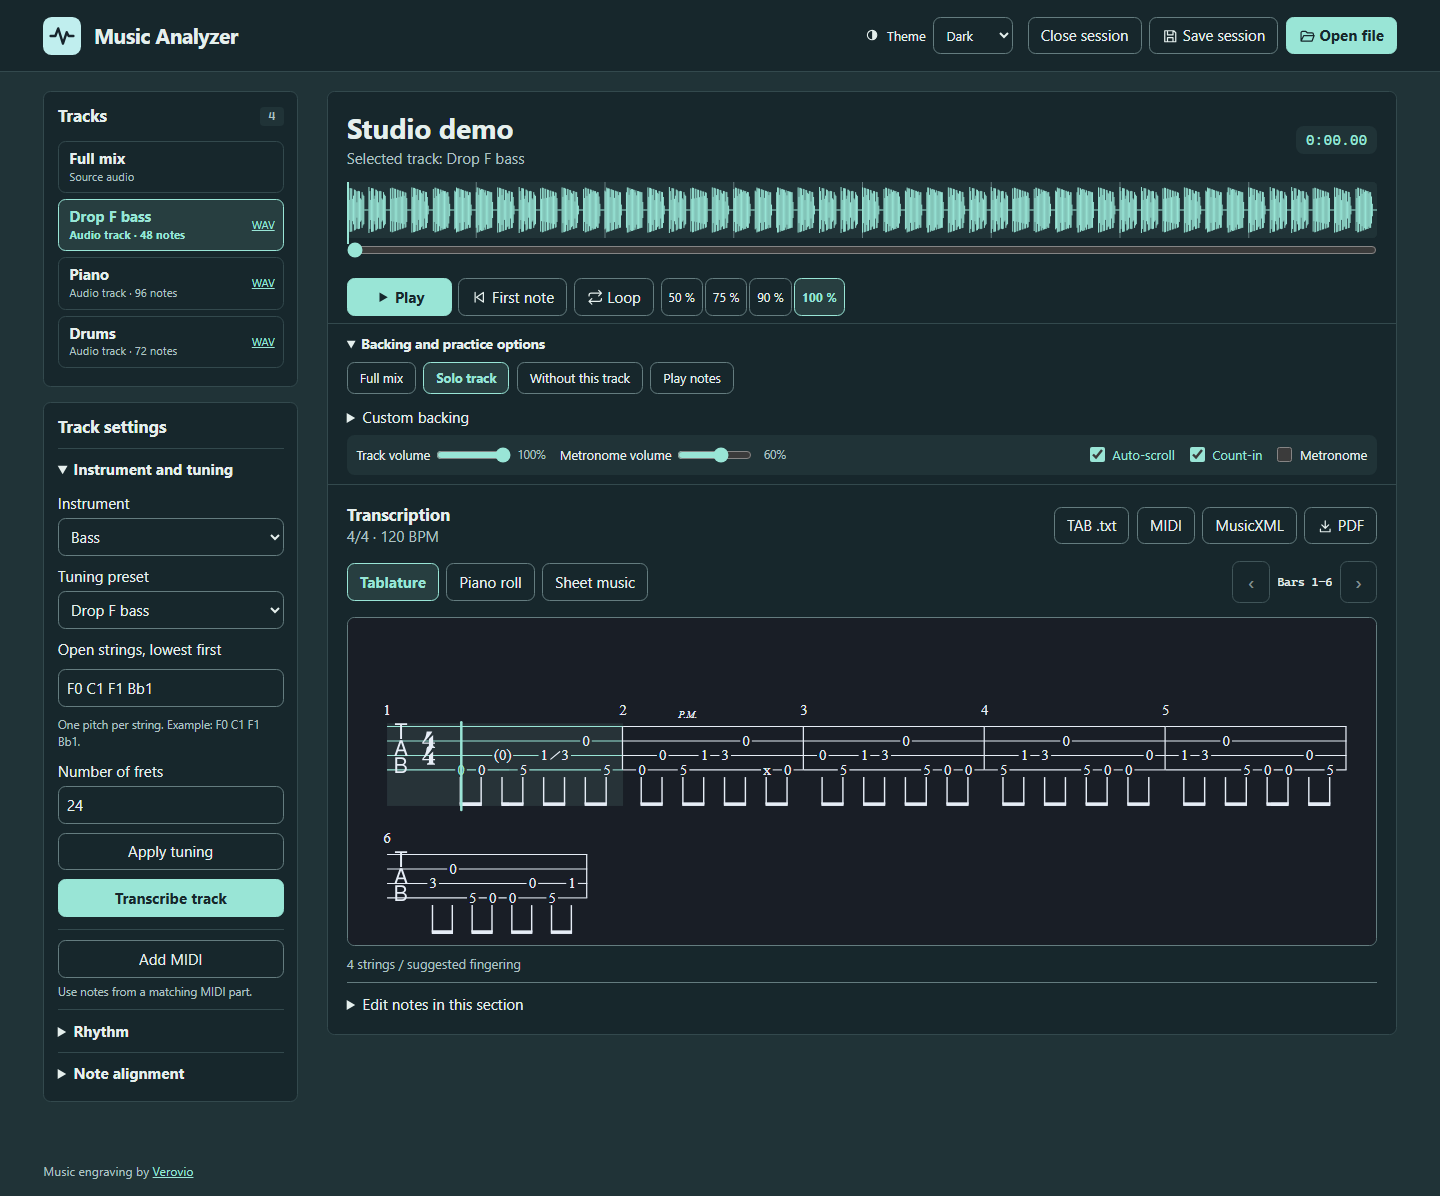
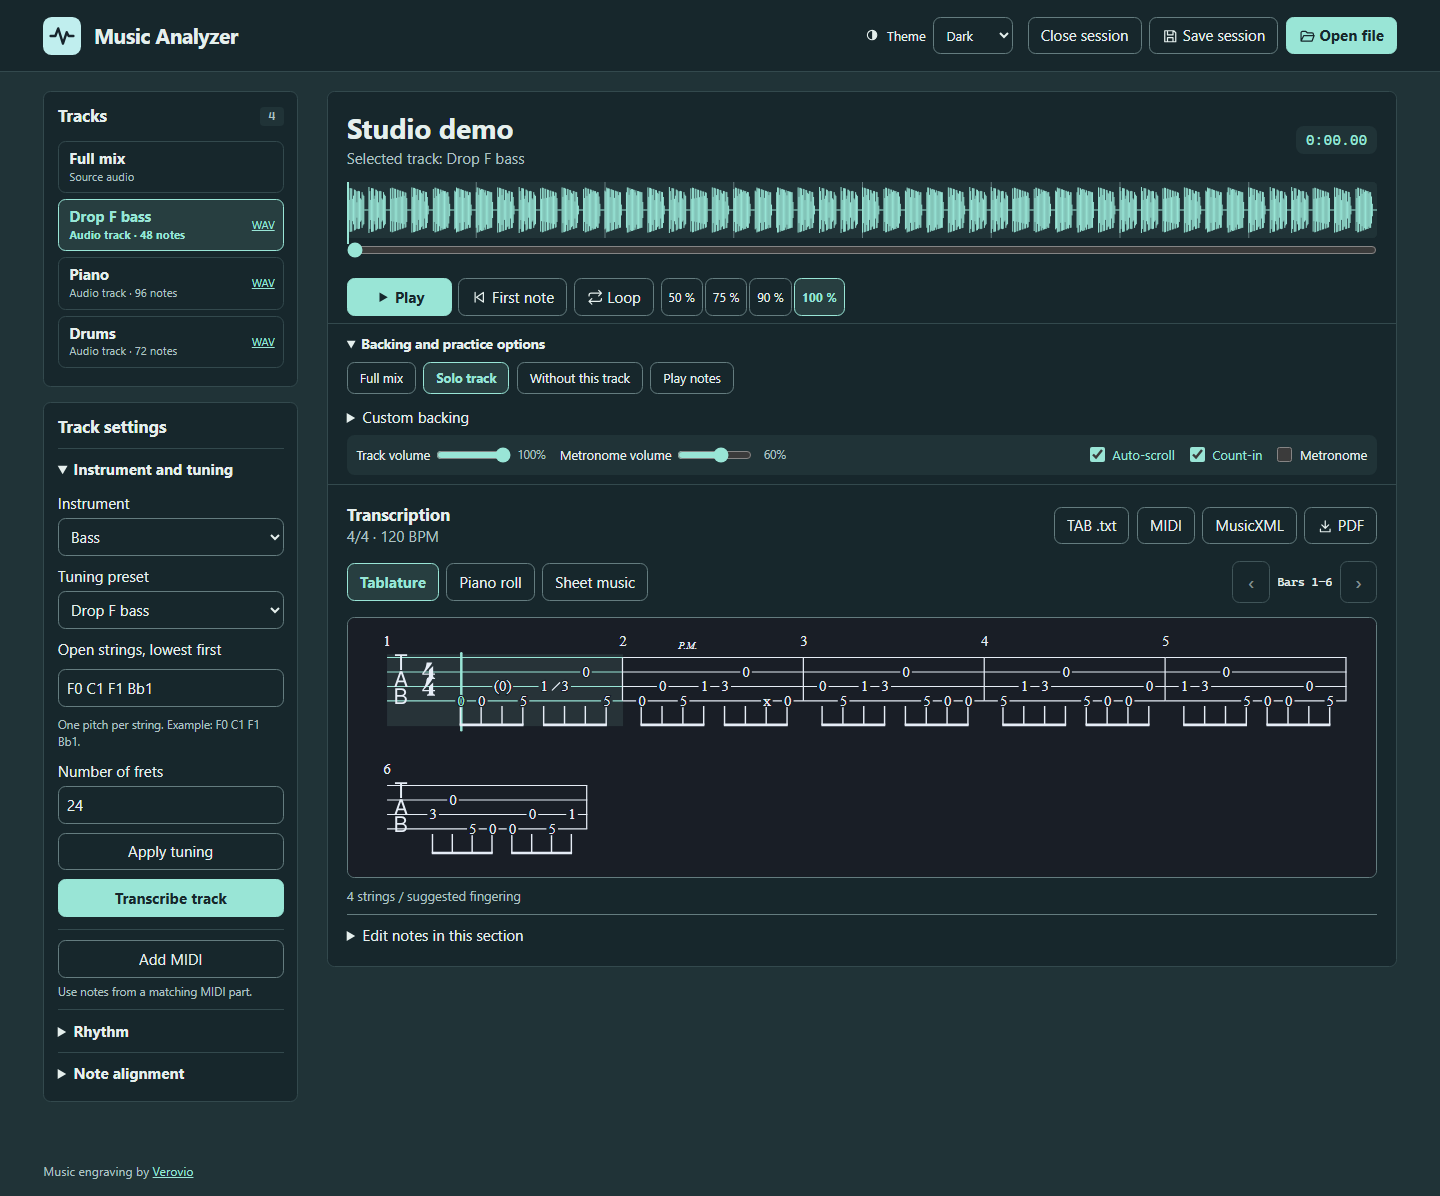
fix: simplify rhythm in practice tablature

Changed region(s): [[0.25, 0.5569, 0.9375, 0.8662]]

diff --git a/web/sheet.js b/web/sheet.js
@@ -13,13 +13,13 @@ export function makeScoreCursor(namespace) {
     if (!measure?.group.isConnected) { line.remove(); return; }
     let layout = geometry.get(measure.group);
     if (!layout) {
-      const staffs = [...measure.group.querySelectorAll("g.staff")];
+      const staffs = [...measure.group.querySelectorAll(":scope > g.staff")];
       if (!staffs.length) return;
       const boxes = staffs.flatMap(staff => {
         const paths = [...staff.querySelectorAll(":scope > path")];
         return (paths.length ? paths : [staff]).map(path => path.getBBox());
       });
-      const rhythm = [...measure.group.querySelectorAll("g.tabGrp, g.beam:has(g.tabDurSym)")].map(glyph => glyph.getBBox());
+      const rhythm = staffs.filter(staff => staff.querySelector("g.tabDurSym")).map(staff => staff.getBBox());
       const left = Math.min(...boxes.map(box => box.x));
       const right = Math.max(...boxes.map(box => box.x + box.width));
       const duration = measure.end - measure.start;
@@ -32,7 +32,7 @@ export function makeScoreCursor(namespace) {
       }
       const points = [...anchors].sort((a, b) => a[0] - b[0]);
       for (let i = 1; i < points.length; i++) points[i][1] = Math.max(points[i - 1][1], points[i][1]);
-      layout = { points,
+      layout = { points, staff: staffs[0],
         top: Math.min(...boxes.map(box => box.y)) - 90,
         bottom: Math.max(...[...boxes, ...rhythm].map(box => box.y + box.height)) + 90 };
       geometry.set(measure.group, layout);
@@ -45,7 +45,7 @@ export function makeScoreCursor(namespace) {
     if (line.parentNode !== measure.group) {
       line.setAttribute("y1", layout.top);
       line.setAttribute("y2", layout.bottom);
-      measure.group.append(line);
+      measure.group.insertBefore(line, layout.staff);
     }
     line.setAttribute("x1", x);
     line.setAttribute("x2", x);
@@ -75,6 +75,15 @@ export function mountScore(host, score, notes, phase, seek) {
   svg.removeAttribute("width");
   svg.removeAttribute("height");
   host.replaceChildren(svg);
+  const firstSystem = svg.querySelector("g.system");
+  if (firstSystem && svg.querySelector("g.tabGrp")) {
+    // The tempo heading already appears in the player, so trim its empty band in TAB.
+    const frame = svg.getBoundingClientRect();
+    const top = Math.min(...[...firstSystem.querySelectorAll("g.staff, g.mNum, g.tabPalmMute")]
+      .map(mark => mark.getBoundingClientRect().top));
+    const inset = top - frame.top - 16;
+    if (inset > 0 && inset < frame.height) svg.style.marginBlockStart = `${-inset}px`;
+  }
   const markers = [], byID = new Map();
   for (const glyph of svg.querySelectorAll("g.note[id]")) {
     const match = /^n(\d+)-\d+$/u.exec(glyph.id);

diff --git a/web/style.css b/web/style.css
@@ -300,6 +300,7 @@ button.note.playing { border-color: var(--accent); background: var(--accent); co
 #score-image .placeholder, #score-image g.tempo, #score-image g.label { visibility: hidden; }
 #score-image g.note[id], #score-image g.measure[role="button"] { cursor: pointer; }
 #score-image g.note.playing { fill: var(--score-active); color: var(--score-active); }
+#score-image g.tabGrp g.note > text { paint-order: stroke; stroke: var(--paper); stroke-width: 48px; }
 #score-image g.measure.is-current > g.staff > path { stroke: var(--score-active); }
 #score-image g.measure:focus-visible { outline: 2px solid var(--score-active); outline-offset: -2px; }
 #score-image .measure-hit { fill: transparent; stroke: none; pointer-events: all; }

diff --git a/web/app.js b/web/app.js
@@ -789,8 +789,9 @@ async function drawScore(atCursor) {
   $("score-loading").hidden = false;
   try {
     const activeView = view;
-    const { body, original } = scoreData(view === "tab");
-    body.width = Math.min(2700, Math.max(900, Math.round($("results").clientWidth / .46)));
+    const tablature = view === "tab";
+    const { body, original } = scoreData(tablature);
+    body.width = Math.min(2700, Math.max(tablature ? 720 : 900, Math.round($("results").clientWidth / .46)));
     if (atCursor) body.at = Math.max(0, transport.position - rhythm.phase);
     const score = await json("/api/export/score", { ...post(body), signal: controller.signal });
     if (controller.signal.aborted || view !== activeView) return;

diff --git a/studio/notation.py b/studio/notation.py
@@ -3,6 +3,7 @@
 from bisect import bisect_right
 from collections import defaultdict
 from io import BytesIO
+from itertools import groupby
 from math import isfinite
 from statistics import median
 from typing import Literal, NotRequired, TypedDict
@@ -165,18 +166,18 @@ def _tag(parent: ET.Element, name: str, value: str | int) -> None:
     ET.SubElement(parent, name).text = str(value)
 
 
-def _beam(measure: ET.Element, numerator: int, denominator: int) -> None:
-    """Group short notes within a beat without joining across rests."""
+def _beam(measure: ET.Element, numerator: int, denominator: int, *, compact_tab: bool) -> None:
+    """Beam straight eighths in fours on 4/4 TAB. Group other runs by beat."""
     beat_size = 4 * _DIVISIONS // denominator
     if denominator == 8 and numerator > 3 and numerator % 3 == 0:
         beat_size *= 3
     cursor = 0
     run: list[tuple[ET.Element, int, int]] = []
 
-    def flush() -> None:
+    def flush_beat(events: list[tuple[ET.Element, int, int]]) -> None:
         for level in range(1, 5):
             groups: list[list[ET.Element]] = [[]]
-            for row, _, count in run:
+            for row, _, count in events:
                 if count >= level:
                     groups[-1].append(row)
                 elif groups[-1]:
@@ -189,6 +190,25 @@ def _beam(measure: ET.Element, numerator: int, denominator: int) -> None:
                     beam.text = "begin" if not i else "end" if i == len(group) - 1 else "continue"
                     index = next((j for j, node in enumerate(note) if node.tag == "notations"), len(note))
                     note.insert(index, beam)
+
+    def flush() -> None:
+        half_bar = 2 * beat_size
+        extended = set()
+        if compact_tab and (numerator, denominator) == (4, 4):
+            for i, (_, onset, _) in enumerate(run):
+                if onset % half_bar == 0 and i + 4 <= len(run) and all(
+                    count == 1 and duration.find("dot") is None
+                    for duration, _, count in run[i:i + 4]
+                ):
+                    extended.add(onset)
+
+        def group_start(event: tuple[ET.Element, int, int]) -> int:
+            onset = event[1]
+            half = onset - onset % half_bar
+            return half if half in extended else onset - onset % beat_size
+
+        for _, events in groupby(run, key=group_start):
+            flush_beat(list(events))
         run.clear()
 
     flags = {"eighth": 1, "16th": 2, "32nd": 3, "64th": 4}
@@ -197,12 +217,11 @@ def _beam(measure: ET.Element, numerator: int, denominator: int) -> None:
             flush()
             cursor -= int(event.findtext("duration", "0"))
         elif event.tag == "note" and event.find("chord") is None:
-            division = cursor // beat_size
             count = flags.get(event.findtext("type", ""), 0)
-            if run and (run[-1][1] != division or event.find("rest") is not None or not count):
-                flush()
             if count and event.find("rest") is None:
-                run.append((event, division, count))
+                run.append((event, cursor, count))
+            else:
+                flush()
             cursor += int(event.findtext("duration", "0"))
     flush()
 
@@ -282,6 +301,7 @@ def _span(
 def musicxml(
     title: str, notes: list[Note], tempo: list[Tempo], meter: list[Meter], piano: bool,
     *, tuning: list[int] | None = None, tab_positions: list[Position | None] | None = None,
+    compact_tab: bool = False,
 ) -> bytes:
     """Quantize to sixteenths, assigning overlapping durations to independent voices."""
     _validate(notes)
@@ -409,8 +429,15 @@ def musicxml(
                         break
                     index += 1
                 positions[voice] = index
-                _span(measure, cursor, end, 0, 0, [], voice, staff, tab_positions, tuning, notes)
-        _beam(measure, n, d)
+                if compact_tab and cursor == start and end - start == bar:
+                    rest = ET.SubElement(measure, "note")
+                    ET.SubElement(rest, "rest", measure="yes")
+                    _tag(rest, "duration", end - start)
+                    _tag(rest, "voice", voice)
+                    _tag(rest, "staff", staff)
+                else:
+                    _span(measure, cursor, end, 0, 0, [], voice, staff, tab_positions, tuning, notes)
+        _beam(measure, n, d, compact_tab=compact_tab)
         start = end
         number += 1
     return ET.tostring(root, encoding="utf-8", xml_declaration=True)

diff --git a/studio/exports.py b/studio/exports.py
@@ -24,7 +24,7 @@ PART_NAMES = {"bass": "Bass", "guitar": "Guitar", "violin": "Violin", "drums": "
 
 _SVG = "{http://www.w3.org/2000/svg}"
 _STAFF_LINE = re.compile(r"M(-?\d+) (-?\d+) L(-?\d+) \2")
-_TRANSLATE = re.compile(r"translate\((-?[\d.]+)[ ,]")
+_TRANSLATE = re.compile(r"translate\((-?[\d.]+)[ ,]+(-?[\d.]+)\)")
 ET.register_namespace("", "http://www.w3.org/2000/svg")
 ET.register_namespace("xlink", "http://www.w3.org/1999/xlink")
 
@@ -164,7 +164,7 @@ def _palm_mute(system: ET.Element, columns: dict[float, bool], top: float, size:
 
 
 def rhythm_below_tab(svg: str) -> str:
-    """Move Verovio's TAB rhythm glyphs below the fret numbers."""
+    """Collect TAB durations below the strings in a compact rhythm lane."""
     root = ET.fromstring(svg)
     for staff in root.iter(_SVG + "g"):
         if staff.get("class") != "staff":
@@ -176,12 +176,22 @@ def rhythm_below_tab(svg: str) -> str:
                  if (match := _STAFF_LINE.fullmatch(path.get("d", "")))]
         if not lines:
             continue
-        # Reflect the stems, flags and the engraver's beam segments around the
-        # middle of the staff. Fret positions and rests keep their original layout.
-        reflection = f"translate(0 {min(lines) + max(lines)}) scale(1 -1)"
+        # Shorten the empty stem space while keeping the flag and beam alignment.
+        top, bottom = min(lines), max(lines)
+        scale = .7
+        reflection = f"translate(0 {bottom + top * scale:g}) scale(1 {-scale:g})"
         beams = staff.findall(f".//{_SVG}g[@class='beam']/{_SVG}polygon")
         for glyph in [*(duration for duration in durations if len(duration)), *beams]:
             glyph.set("transform", f"{reflection} {glyph.get('transform', '')}".rstrip())
+        # A full-bar rest stays centered. Leave distinct rest heights on multiple voices.
+        if len(staff.findall(f"{_SVG}g[@class='layer']")) == 1:
+            for rest in staff.findall(f".//{_SVG}g[@class='rest']"):
+                glyph = rest.find(_SVG + "use")
+                if glyph is None:
+                    continue
+                anchor = _TRANSLATE.match(glyph.get("transform", ""))
+                if anchor:
+                    rest.set("transform", f"translate(0 {bottom + 330 - float(anchor[2]):g})")
     return ET.tostring(root, encoding="unicode")
 
 

diff --git a/tests/test_notation.py b/tests/test_notation.py
@@ -104,6 +104,28 @@ class NotationTests(unittest.TestCase):
         self.assertTrue({"note", "tie", "clef"}.issubset(classes))
         self.assertEqual(ET.fromstring(xml).findtext(".//clef/sign"), "F")
 
+    def test_tab_groups_straight_eighths_without_rewriting_the_score(self) -> None:
+        eighths = [note(i / 4, (i + 1) / 4, 31) for i in range(8)]
+        mixed = [note(4, 4.125, 31), note(4.125, 4.375, 31), note(4.375, 4.5, 31),
+                 note(4.5, 4.75, 31), note(4.875, 5, 31)]
+        notes = eighths + mixed
+        setup = {"tuning": TUNING, "tab_positions": [{"string": 0, "fret": 3}] * len(notes)}
+        standard = ET.fromstring(musicxml("Bass", notes, [], [], False, **setup))
+        compact = ET.fromstring(musicxml("Bass", notes, [], [], False, **setup, compact_tab=True))
+        self.assertEqual([(n.get("id"), n.findtext("duration")) for n in standard.iter("note") if n.get("id")],
+                         [(n.get("id"), n.findtext("duration")) for n in compact.iter("note") if n.get("id")])
+        pair = ["begin", "end"]
+        first, silent, third = list(compact.iter("measure"))
+        self.assertEqual([beam.text for beam in next(standard.iter("measure")).iter("beam")], pair * 4)
+        self.assertEqual([beam.text for beam in first.iter("beam")], ["begin", "continue", "continue", "end"] * 2)
+        self.assertIsNotNone(silent.find("note/rest[@measure='yes']"))
+        self.assertEqual([beam.text for beam in third.iter("beam")], ["begin", "continue", "end"])
+
+        compound: list[Meter] = [{"time": 0.0, "numerator": 6, "denominator": 8}]
+        six = ET.fromstring(musicxml("Bass", eighths[:6], [], compound, False, tuning=TUNING,
+                                    tab_positions=setup["tab_positions"][:6], compact_tab=True))
+        self.assertEqual([beam.text for beam in six.iter("beam")], ["begin", "continue", "end"] * 2)
+
     def test_empty_and_invalid_events(self) -> None:
         score = ET.fromstring(musicxml("Silence", [], [], [], False))
         self.assertEqual(len(score.findall("part/measure")), 1)

diff --git a/tests/test_studio.py b/tests/test_studio.py
@@ -326,6 +326,7 @@ class HttpTests(unittest.TestCase):
         self.assertIn(0, score["measures"].values())
         self.assertEqual(score["onsets"]["n0-0"], 0)
         svg = {"s": "http://www.w3.org/2000/svg"}
+        self.assertIsNotNone(graph.find(".//s:g[@class='rest'][@transform]", svg))
         matched = []
         for group in graph.findall(".//s:g[@class='tabGrp']", svg):
             digit = group.find("s:g[@class='note']/s:text", svg)
@@ -365,9 +366,10 @@ class HttpTests(unittest.TestCase):
                    for stem in glyph.findall(".//s:g[@class='stem']/s:path", ns)]
         self.assertTrue(rhythms)
         for rhythm, stem in rhythms:
-            offset = float(rhythm.attrib["transform"].split()[1].rstrip(")"))
+            transform = rhythm.attrib["transform"].split()
+            offset, scale = (float(transform[index].rstrip(")")) for index in (1, 3))
             coordinates = stem.attrib["d"].split()
-            self.assertGreater(offset - max(float(coordinates[1]), float(coordinates[-1])), bottom)
+            self.assertGreater(offset + scale * max(float(coordinates[1]), float(coordinates[-1])), bottom)
         display = self.client.post("/api/export/score", json=request).get_json()
         self.assertGreater(display["end"], notes[-1]["end"] * 1000)
 

diff --git a/studio/server.py b/studio/server.py
@@ -883,7 +883,7 @@ def create_app(root: Path) -> Flask:
             tuning = parse_tuning(data.get("tuning"))
             positions = tab_positions(data.get("positions"), notes, tuning)
             xml = musicxml(title, notes, tempo, meter, False, tuning=tuning,
-                           tab_positions=positions)
+                           tab_positions=positions, compact_tab=kind != "musicxml")
         else:
             xml = score_file(title, notes, tempo, meter, mode)
         if kind == "musicxml":
@@ -897,7 +897,7 @@ def create_app(root: Path) -> Flask:
             toolkit.setResourcePath(str(package_files("verovio").joinpath("data")))
             engraving.toolkit = toolkit
         printing = kind == "print"
-        width = 2150 if printing else integer(data.get("width", 1600), 900, 2700, "Score width")
+        width = 2150 if printing else integer(data.get("width", 1600), 720 if tablature else 900, 2700, "Score width")
         toolkit.setOptions({"pageWidth": width, "pageHeight": 1300 if printing else 1050, "scale": 46,
                             "header": "none", "footer": "none", "adjustPageHeight": not printing,
                             "breaks": "auto", "breaksNoWidow": True, "mnumInterval": 1, "minLastJustification": .35,

diff --git a/tests/browser_checks.py b/tests/browser_checks.py
@@ -47,6 +47,7 @@ def run() -> None:
             page.locator("#studio").wait_for(state="visible")
             expect(page.locator("#score-image g.note").first).to_be_visible()
             expect(page.locator("#score-image g.is-current .score-playhead")).to_have_count(1)
+            expect(page.locator("#score-image g.beam polygon")).to_have_count(12)
             theme = page.get_by_role("combobox", name="Theme")
             theme.select_option("dark")
             expect(page.locator("#score-image")).to_have_css("background-color", "rgb(25, 30, 38)")

diff --git a/README.md b/README.md
@@ -34,7 +34,7 @@ Dependencies are locked for Windows x64, Linux x64, and Apple Silicon macOS. Win
 * **MIDI** | Open type 0 or 1 MIDI by itself or alongside audio. In an open session, **Add MIDI** imports its parts. **Use MIDI notes** copies the selected reference and any edits to the current audio stem while keeping its recording. MIDI keeps its original timing, including leading silence. Use **Note alignment** to adjust the offset or transposition.
 * **Tuning** | Enter the open strings from lowest to highest, including the octave for each pitch. For example, use `F0 C1 F1 Bb1`. The pitches you enter determine the number of strings. Set your instrument's fret count, and use the note editor to choose a different playable string for any note.
 * **Rhythm** | MIDI imports use the file's tempo and meter changes. For audio, the app estimates the tempo and first beat. Both the meter and the first beat can be corrected. The marker `3.1` means the first beat of bar three.
-* **Score** | Tablature shows fret numbers on the strings and rhythmic stems and beams below. Piano uses a grand staff, and drums use percussion notation. Piano roll shows exact note onsets and durations, with keys for piano. Click a note or bar to seek there, or use Tab and Enter to select a bar. A moving playhead marks the current position.
+* **Score** | Tablature puts rhythm below the strings. Four straight eighth notes fill each half of a regular 4/4 bar with one beam, while shorter patterns keep their beat groups. Piano uses a grand staff, and drums use percussion notation. Piano roll shows exact note onsets and durations, with keys for piano. Click a note or bar to seek there, or use Tab and Enter to select a bar. A moving playhead marks the current position.
 * **Export** | MIDI preserves transcription timing and tempo and meter changes. MusicXML places notes, rests, chords, and ties on a sixteenth-note grid. In tablature view, it also includes tuning, strings, and frets. TAB .txt lists frets, times, and beats. **PDF** opens a print preview of all score pages. Choose **Save as PDF** in the print dialog.
 * **Playing techniques** | Use the note editor to mark ghost notes, dead notes, slides into a note, and palm mutes on bass or guitar. Marks are written notation. Synthesized playback uses the notes' existing pitch, timing, and velocity.
 

diff --git a/CHANGELOG.md b/CHANGELOG.md
@@ -1,5 +1,9 @@
 # Changelog
 
+## Unreleased
+
+* Simpler bass and guitar tablature on screen and in PDF. Straight eighths in 4/4 are grouped in fours, and the shorter rhythm row keeps rests and beams away from the fret numbers.
+
 ## 0.2.0 | 2026-11-25
 
 * A guided dashboard for importing a song, separating stems, and transcribing a selected track.
